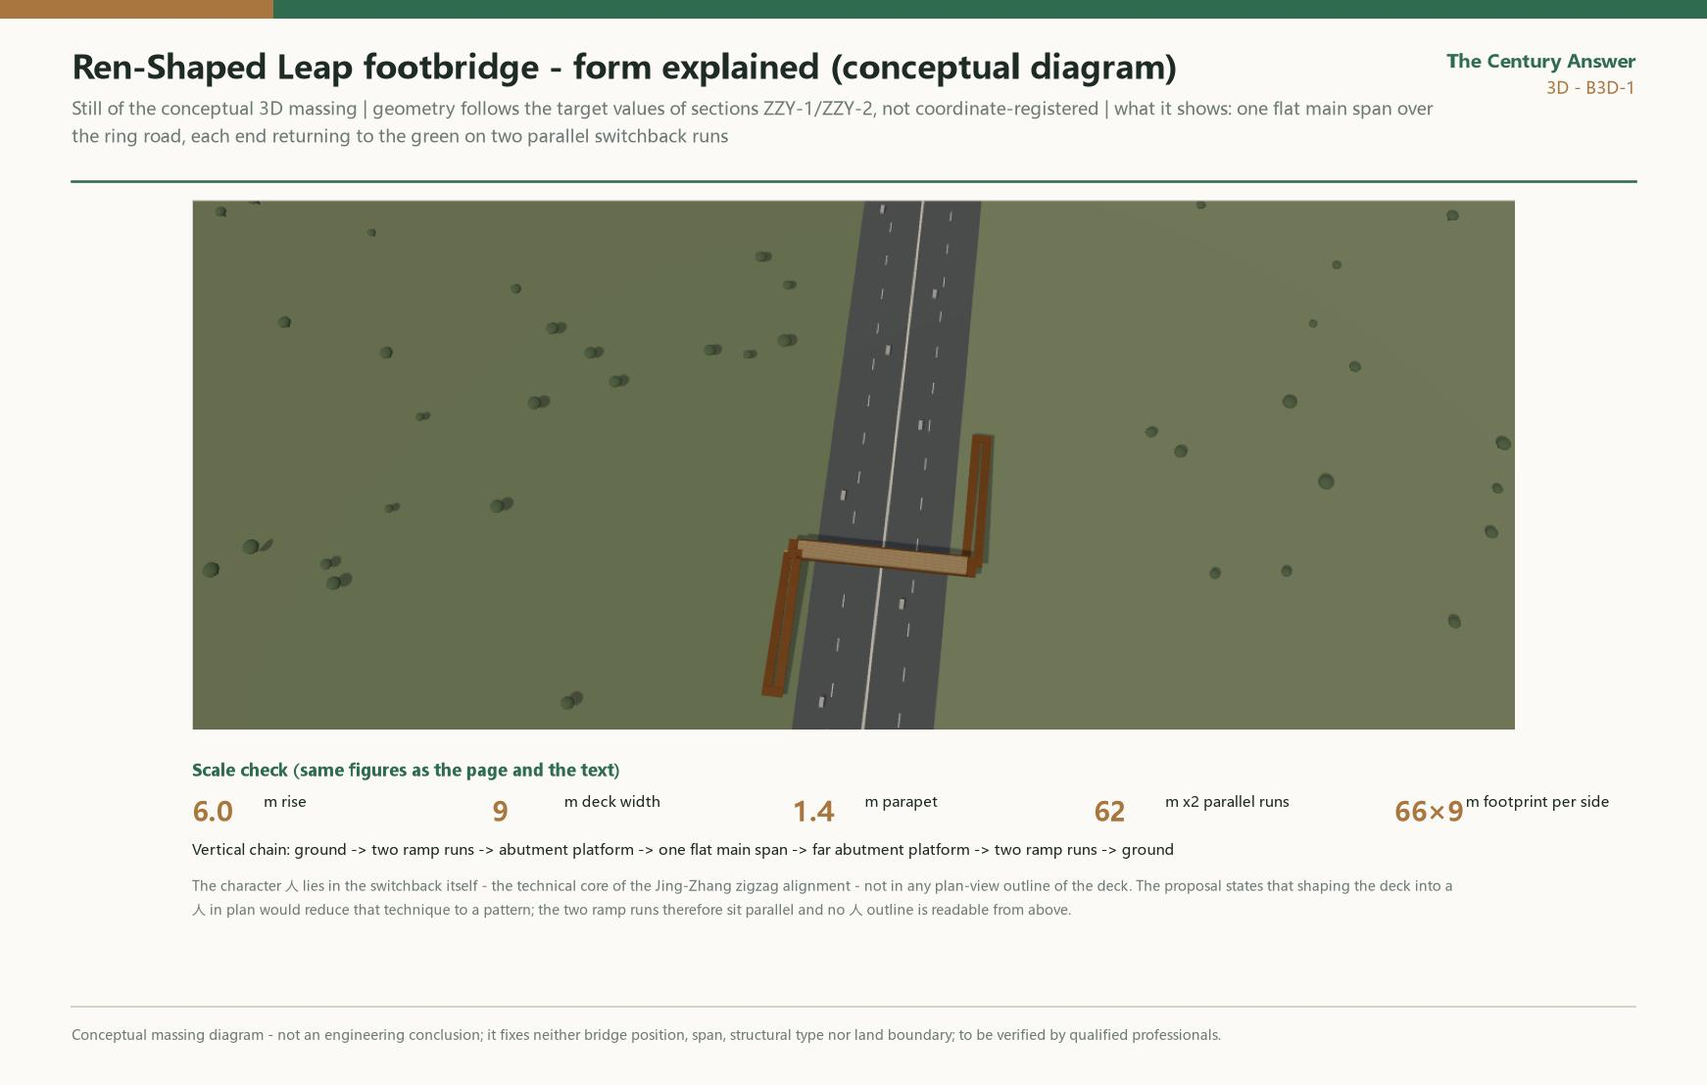
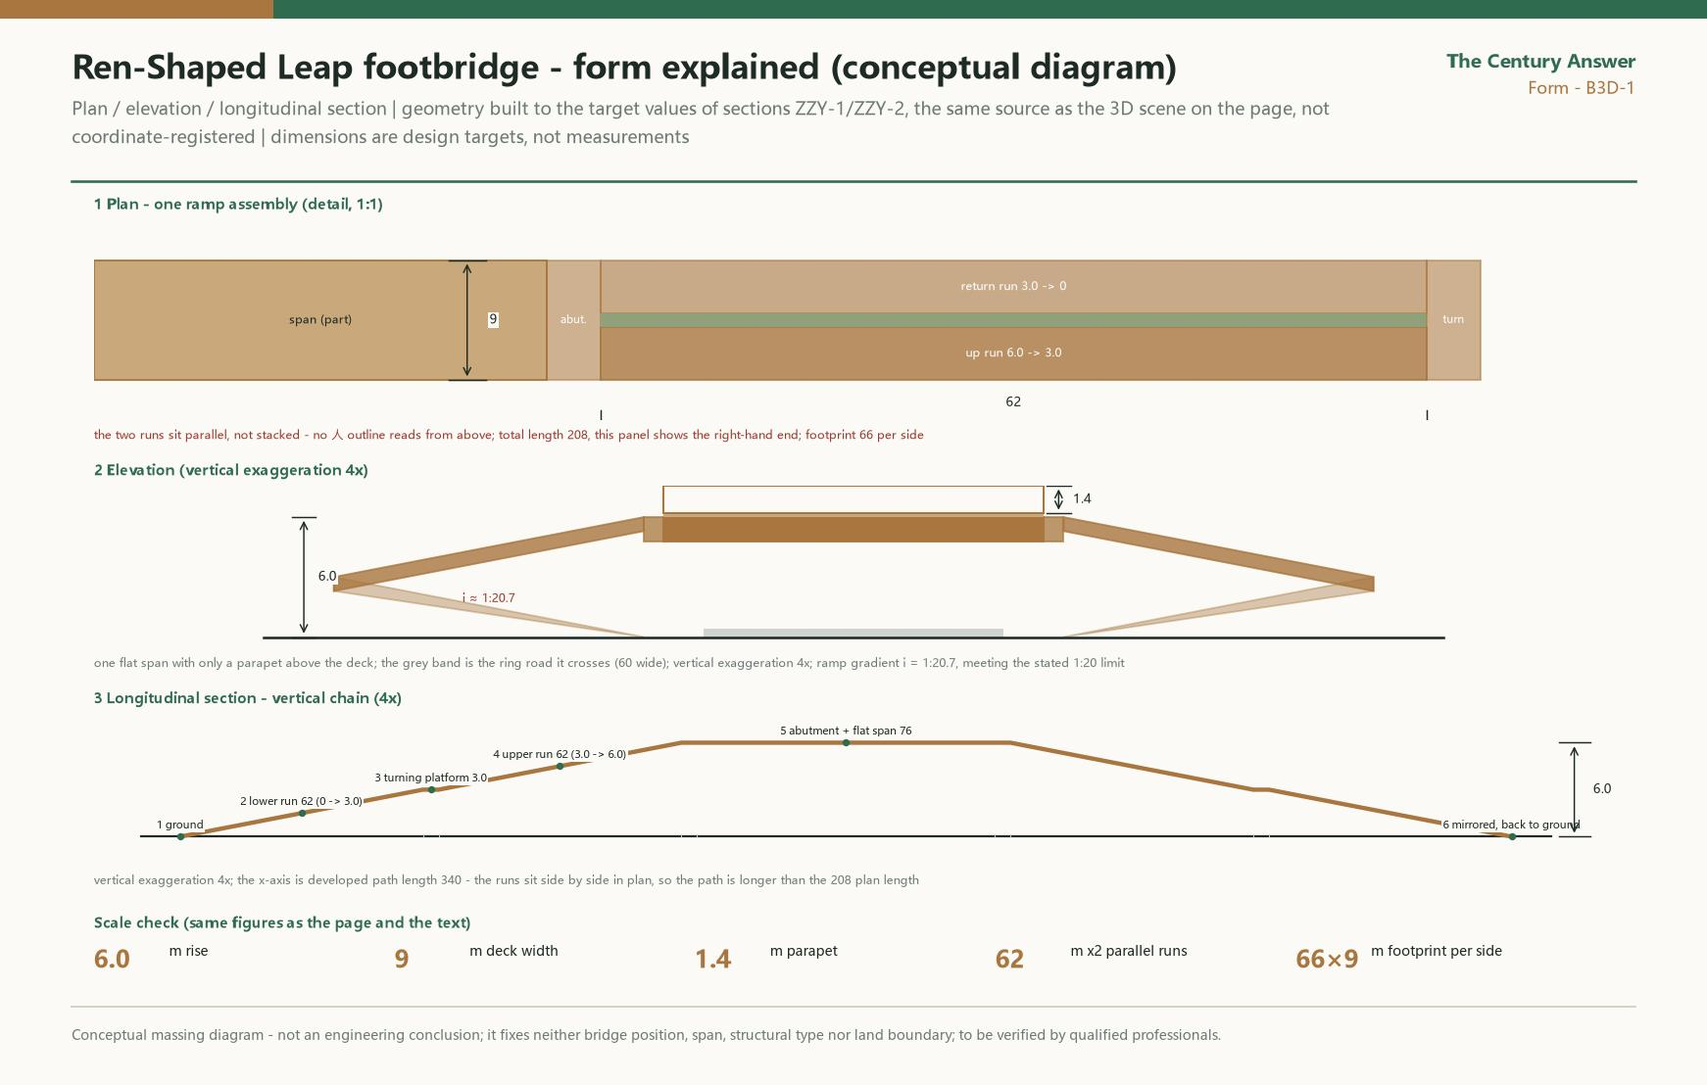
Draw the bridge's form instead of photographing a massing model of it
Putting the still into the section drawings' frame was the right direction but
did not fix the underlying problem: an oblique view of a massing model cannot
explain form. Perspective is for what a place feels like to stand in. The four
things this figure has to say each want a different orthographic projection —
the two ramp runs sitting parallel (plan), the 6.0 / 1.4 / 9 dimensions
(elevation), the six-step vertical chain (section), and a flat span carrying
nothing but a parapet (elevation). The previous version used a perspective plus a
ring of text to explain what the picture did not show; this one lets the drawing
say it. The frame, scale check and disclaimer carry over unchanged.

Geometry is read from bridge3d.js's construction parameters rather than redrawn
from prose, so the drawing, the 3D scene and the page's .dims3 share one source;
assertions lock the 66x9 footprint, the 76 span and the 208 total length so a
change on one side that is not carried to the other fails loudly.

Two drafting decisions are stated on the drawing itself: the plan shows one ramp
assembly at 1:1, because across the full 208 m the 9 m width collapses to a line
and the parallel relationship — the entire reason for that panel — disappears;
and elevation and section carry a 4x vertical exaggeration, because 6 m of rise
over 208 m draws as a flat line.

One error of my own, corrected: the first section mistook plan length for
[…]

diff --git a/submissions/wanghao198822/jingzhang-century-answer/visual/index.en.html b/submissions/wanghao198822/jingzhang-century-answer/visual/index.en.html
@@ -503,7 +503,7 @@ footer .fl{display:flex;gap:18px;flex-wrap:wrap;font-family:var(--mono);font-siz
     <h2>Turn the bridge around: why 人 is read in the ramps</h2>
     <p>Drag to rotate, scroll to zoom. The deck is one flat line with nothing above it but the parapet. The character 人 lives in the <b>switchback</b> at each end — the technical core of the Jing-Zhang Railway's zigzag alignment — not in any plan-view outline of the deck: the proposal states that shaping the deck into a 人 in plan would reduce that technique to a pattern, so the two ramp runs sit parallel and no 人 outline is readable from above. What the model shows is the vertical chain: ground → two ramp runs → abutment platform → one flat main span → far abutment platform → two ramp runs → ground. Geometry follows the target values of sections ZZY-1/ZZY-2 — a concept model, not coordinate-registered.</p>
   </div>
-  <div class="stage" id="b3d-stage" tabindex="0" role="application" aria-label="Three-dimensional conceptual view of the Ren-Shaped Leap footbridge; arrow keys rotate, plus and minus zoom"><img class="b3d-poster" id="b3d-poster" src="assets/renders/b3d-poster.en.jpg" alt="Static view of the Ren-Shaped Leap footbridge scene: one flat deck spans the ring road with nothing above it but the parapet, and each end returns to the green on two parallel switchback ramps; the character ren lies in the act of switching back, not in any outline readable from above. The image is a titled technical diagram carrying a scale check and the vertical chain."><div class="b3d-state mono" id="b3d-state">STATIC IMAGE · 3D LOADING</div><div class="hint3d mono">DRAG / ARROWS · SCROLL / +−</div></div>
+  <div class="stage" id="b3d-stage" tabindex="0" role="application" aria-label="Three-dimensional conceptual view of the Ren-Shaped Leap footbridge; arrow keys rotate, plus and minus zoom"><img class="b3d-poster" id="b3d-poster" src="assets/renders/b3d-poster.en.jpg" alt="Static view of the Ren-Shaped Leap footbridge scene: one flat deck spans the ring road with nothing above it but the parapet, and each end returns to the green on two parallel switchback ramps; the character ren lies in the act of switching back, not in any outline readable from above. The image is an orthographic drawing - plan, elevation and longitudinal section - carrying a scale check and the vertical chain."><div class="b3d-state mono" id="b3d-state">STATIC IMAGE · 3D LOADING</div><div class="hint3d mono">DRAG / ARROWS · SCROLL / +−</div></div>
   <div>
     <div class="dims3 mono"><span><b>6.0</b>m rise</span><span><b>9</b>m deck width</span><span><b>1.4</b>m parapet</span><span><b>62</b>m ×2 parallel runs</span><span><b>66×9</b>m footprint per side</span></div>
     <p class="lic">Three.js r160 (MIT) ships offline with the package at assets/three.min.js; no network request is made.</p>
@@ -869,7 +869,7 @@ This browser cannot play embedded video; open assets/media/narrative.mp4 directl
 <h3 class="sub3"><span class="ix">D·2</span>Four-gate self-check</h3>
 <div class="gates"><div class="gate"><div class="gn">Deterministic validation<span class="pill ok" style="margin-left:7px">PASS</span></div><div class="gk">deterministic_validation · returncode 0</div><pre>errors 0
 warnings 24
-total bytes 41,276,344
+total bytes 41,322,906
 · submissions/wanghao198822/jingzhang-century-answer/geometry/site_boundary.geojson: uses provisional boundary; do not treat it as an official redline or precise-area basis. Organizer data gaps do not block content scoring; recalculate when official geometry is supplied
 · submissions/wanghao198822/jingzhang-century-answer/spatial.json: items[0]: provisional spatial concept needs maintainer review before being treated as public-facing context</pre></div><div class="gate"><div class="gn">Spatial review<span class="pill ok" style="margin-left:7px">PASS</span></div><div class="gk">spatial_review · returncode 0</div><pre>stage formal
 issues 3 (minor:3)
@@ -886,7 +886,7 @@ known_metric_refs_required = 83
 proposal_format_version = 2
 evidence_contract = section-anchors-plus-structured-audit
 proposal_reference_counts = source:23, standard:8, depth:15, data:26, metric:11</pre></div></div>
-<div class="note">From self_check.json: stage = formal · review_status = formal-review-ready · can_enter_formal_review = True<br>Calibre of total bytes: the figure above is the value recorded at self-check time. self_check.json is itself counted in the total, and the tool measures after writing an intermediate file that does not yet carry the gate results, so an independent re-run reports 771 bytes more (41,277,115). The difference is exactly the growth of self_check.json once the gate results are attached — an inherent two-phase write in the tool that changes no gate verdict.</div>
+<div class="note">From self_check.json: stage = formal · review_status = formal-review-ready · can_enter_formal_review = True<br>Calibre of total bytes: the figure above is the value recorded at self-check time. self_check.json is itself counted in the total, and the tool measures after writing an intermediate file that does not yet carry the gate results, so an independent re-run reports 771 bytes more (41,323,677). The difference is exactly the growth of self_check.json once the gate results are attached — an inherent two-phase write in the tool that changes no gate verdict.</div>
 <div class="tw"><table class="dt"><thead><tr><th>Check</th><th>Result</th><th>Severity</th><th>Target</th><th>Message</th></tr></thead><tbody><tr><td><code class="mid2">DETERMINISTIC_VALIDATION</code></td><td class="st"><span class="pill ok">pass</span></td><td>blocking</td><td><code class="mid2">validate_local_submission.py</code></td><td>deterministic_validation: PASS</td></tr><tr><td><code class="mid2">SPATIAL_REVIEW</code></td><td class="st"><span class="pill ok">pass</span></td><td>blocking</td><td><code class="mid2">spatial_review.py</code></td><td>spatial_review: PASS</td></tr><tr><td><code class="mid2">VISUAL_PACKAGING</code></td><td class="st"><span class="pill ok">pass</span></td><td>blocking</td><td><code class="mid2">visual_review.py</code></td><td>visual_review: PASS</td></tr><tr><td><code class="mid2">PROFESSIONAL_EVIDENCE</code></td><td class="st"><span class="pill ok">pass</span></td><td>blocking</td><td><code class="mid2">professional_review.py</code></td><td>professional_review: PASS</td></tr></tbody></table></div>
 </div></section>
 <section class="sec apx" id="s12"><div class="wrap"><div class="sh rv"><span class="no">E</span><h2 class="serif">Appendix E · Verify it yourself, on the spot</h2><span class="sub">Three scripts recompute in your own browser</span><span class="en">附录 E · 可当场核验工具</span></div>

diff --git a/submissions/wanghao198822/jingzhang-century-answer/visual/index.html b/submissions/wanghao198822/jingzhang-century-answer/visual/index.html
@@ -503,7 +503,7 @@ footer .fl{display:flex;gap:18px;flex-wrap:wrap;font-family:var(--mono);font-siz
     <h2>把这座桥转起来看：为什么「人」字在坡道上</h2>
     <p>拖拽旋转、滚轮缩放。桥面是一条平直的横线、之上只有栏板。「人」字落在两端的<b>折返</b>本身——京张铁路展线的技术内核——不落在桥面的平面造型上：正文明写「桥面一旦做成人字形平面造型，展线的技术内核就退化成图案」，两段坡道因此在平面上并排展开，俯视并不构成一个「人」字轮廓。转动模型看的是竖向链条：地面 → 折返坡道两段 → 桥头平台 → 一跨平直主跨 → 对岸桥头平台 → 折返坡道两段 → 落回地面。几何按断面 ZZY-1/ZZY-2 的设计目标值搭建，属概念示意、未经坐标配准。</p>
   </div>
-  <div class="stage" id="b3d-stage" tabindex="0" role="application" aria-label="人字之跃步行桥三维概念示意，可用方向键旋转、加减号缩放"><img class="b3d-poster" id="b3d-poster" src="assets/renders/b3d-poster.jpg" alt="人字之跃步行桥的三维场景静态图：一跨平直桥面横跨环路，桥面之上只有栏板，两端各以两段并排折返坡道落回两侧绿地；「人」字落在折返这一动作上，不是俯视可读出的平面轮廓。图为带图签的技术示意，附尺度校核与竖向链条说明。"><div class="b3d-state mono" id="b3d-state">静态图 · 可交互三维加载中</div><div class="hint3d mono">拖拽或方向键旋转 · 滚轮或 +/− 缩放</div></div>
+  <div class="stage" id="b3d-stage" tabindex="0" role="application" aria-label="人字之跃步行桥三维概念示意，可用方向键旋转、加减号缩放"><img class="b3d-poster" id="b3d-poster" src="assets/renders/b3d-poster.jpg" alt="人字之跃步行桥的三维场景静态图：一跨平直桥面横跨环路，桥面之上只有栏板，两端各以两段并排折返坡道落回两侧绿地；「人」字落在折返这一动作上，不是俯视可读出的平面轮廓。图为平面／立面／纵剖三格正投影的技术图，附尺度校核与竖向链条说明。"><div class="b3d-state mono" id="b3d-state">静态图 · 可交互三维加载中</div><div class="hint3d mono">拖拽或方向键旋转 · 滚轮或 +/− 缩放</div></div>
   <div>
     <div class="dims3 mono"><span><b>6.0</b>m 抬升</span><span><b>9</b>m 桥面净宽</span><span><b>1.4</b>m 栏板</span><span><b>62</b>m×2 并排坡道</span><span><b>66×9</b>m 单侧占地</span></div>
     <p class="lic">Three.js r160（MIT 许可）随包离线提供于 assets/three.min.js，无任何网络请求。</p>
@@ -869,7 +869,7 @@ footer .fl{display:flex;gap:18px;flex-wrap:wrap;font-family:var(--mono);font-siz
 <h3 class="sub3"><span class="ix">D·2</span>四门自检</h3>
 <div class="gates"><div class="gate"><div class="gn">确定性校验<span class="pill ok" style="margin-left:7px">PASS</span></div><div class="gk">deterministic_validation · returncode 0</div><pre>错误 0
 警告 24
-总字节 41,276,344
+总字节 41,322,906
 · submissions/wanghao198822/jingzhang-century-answer/geometry/site_boundary.geojson: uses provisional boundary; do not treat it as an official redline or precise-area basis. Organizer data gaps do not block content scoring; recalculate when official geometry is supplied
 · submissions/wanghao198822/jingzhang-century-answer/spatial.json: items[0]: provisional spatial concept needs maintainer review before being treated as public-facing context</pre></div><div class="gate"><div class="gn">空间审查<span class="pill ok" style="margin-left:7px">PASS</span></div><div class="gk">spatial_review · returncode 0</div><pre>阶段 formal
 问题 3 (minor:3)
@@ -886,7 +886,7 @@ known_metric_refs_required = 83
 proposal_format_version = 2
 evidence_contract = section-anchors-plus-structured-audit
 proposal_reference_counts = source:23, standard:8, depth:15, data:26, metric:11</pre></div></div>
-<div class="note">self_check.json 记录：stage = formal · review_status = formal-review-ready · can_enter_formal_review = True<br>总字节口径：上表为自检写入时点的记录值。self_check.json 自身计入总字节，而工具先写入尚未附四门结果的中间文件再测量，故独立重跑会比表中大 771 字节（41,277,115）——差值即 self_check.json 附上四门结果后的增量，属工具固有的两阶段写入，不影响任何一门的结论。</div>
+<div class="note">self_check.json 记录：stage = formal · review_status = formal-review-ready · can_enter_formal_review = True<br>总字节口径：上表为自检写入时点的记录值。self_check.json 自身计入总字节，而工具先写入尚未附四门结果的中间文件再测量，故独立重跑会比表中大 771 字节（41,323,677）——差值即 self_check.json 附上四门结果后的增量，属工具固有的两阶段写入，不影响任何一门的结论。</div>
 <div class="tw"><table class="dt"><thead><tr><th>自检项</th><th>结果</th><th>级别</th><th>对象</th><th>说明</th></tr></thead><tbody><tr><td><code class="mid2">DETERMINISTIC_VALIDATION</code></td><td class="st"><span class="pill ok">pass</span></td><td>blocking</td><td><code class="mid2">validate_local_submission.py</code></td><td>deterministic_validation: PASS</td></tr><tr><td><code class="mid2">SPATIAL_REVIEW</code></td><td class="st"><span class="pill ok">pass</span></td><td>blocking</td><td><code class="mid2">spatial_review.py</code></td><td>spatial_review: PASS</td></tr><tr><td><code class="mid2">VISUAL_PACKAGING</code></td><td class="st"><span class="pill ok">pass</span></td><td>blocking</td><td><code class="mid2">visual_review.py</code></td><td>visual_review: PASS</td></tr><tr><td><code class="mid2">PROFESSIONAL_EVIDENCE</code></td><td class="st"><span class="pill ok">pass</span></td><td>blocking</td><td><code class="mid2">professional_review.py</code></td><td>professional_review: PASS</td></tr></tbody></table></div>
 </div></section>
 <section class="sec apx" id="s12"><div class="wrap"><div class="sh rv"><span class="no">E</span><h2 class="serif">附录 E · 可当场核验工具</h2><span class="sub">三个脚本在你自己的浏览器里当场复算</span><span class="en">Appendix E · Verify it yourself, on the spot</span></div>

diff --git a/submissions/wanghao198822/jingzhang-century-answer/report/copyright_statement.md b/submissions/wanghao198822/jingzhang-century-answer/report/copyright_statement.md
@@ -43,7 +43,7 @@
 1. `visual/assets/renders/` 下七张概念意象图，分两批生成，来源如下：
    - **Lib Image（LibTV 平台）两张**：`render-bell-plaza.jpg`（应答钟广场，以公开授权的大钟寺实景照片〔Wikimedia Commons，CC 许可〕为参考图生成，用于还原古建形制）、`render-spike-belt.jpg`（道钉带日景）。
    - **GPT image 2.0（经用户 ChatGPT Pro 订阅调用）八张**：`render-ren-bridge.jpg`（人字之跃片区鸟瞰）、`render-answer-gate.jpg`（巨型「应答簿」纪念门，生成过程留档、判为不采用）、`render-spike-belt-night.jpg`（道钉带夜景）、`render-disclosure-wall.jpg`（算法公示墙）、`render-lesson-gate.jpg`（无墙学期课门）、`render-answer-origin.jpg`（中答·应答原点片区鸟瞰）、`render-dazhongsi-aerial.jpg`（南问·大钟寺片区鸟瞰）、`render-robot-knocks.jpg`（应答门·机器人敲门）。
-   - **非 AI 生成的随包图像两张**：`b3d-poster.jpg` 与 `b3d-poster.en.jpg`，均为本包离线三维场景（Three.js）自身的截图，经确定性脚本 `build-staging/make_b3d_poster.py` 套入与断面图件同一套图签版式（标题、视点与几何依据说明、尺度校核、竖向链条、免责），非图像模型生成物、未经任何图像模型润饰。图中尺度数值与展示页 `.dims3`、正文口径一致；几何按断面 ZZY-1／ZZY-2 的设计目标值搭建，未经坐标配准。
+   - **非 AI 生成的随包图像两张**：`b3d-poster.jpg` 与 `b3d-poster.en.jpg` 为确定性脚本 `build-staging/make_b3d_form.py` 绘制的正投影技术图（平面／立面／纵剖三格），几何参数与包内离线三维场景 `visual/assets/bridge3d.js` 同源，非图像模型生成物、未经任何图像模型润饰。图中尺寸为设计目标值，与展示页 `.dims3`、正文口径一致；立面与纵剖的竖向放大倍数已在图上注明。
    - **两张前版已判为不采用并整条替换**：旧 `render-ren-bridge` 表现为下承式桁架桥，与正文「桥不做塔、不做拱、不做门架」「桥面之上不叠加构筑物」等五项口径不符，该文件已不随包提交；旧 `render-answer-gate` 表现为青铜卷轴（巨型「应答簿」）纪念门，与正文「46 座社区出入口」的定义不符，**该文件仍随包提交、但仅作生成过程留档**，在 manifest 与展示页画廊中均标注「判为不采用」，不作为方案表达。作废原因在此写明，以免读者从早期版本产生误解。
    - **提示词全部由本方案自行撰写**，其中人字之跃一张的几何条件（抬升 6 米、单侧坡道展开 128 米、两段并排折返、占地 66×9 米、两端落地）取自本包断面图件 ZZY-1／ZZY-2 的数值；大钟寺一带的空间关系取自 OSM 实测（觉生寺与地铁 13 号线大钟寺站相距约 676 米、方位约 115°，13 号线走向约 175°）。
    - **边界（重要）**：以上七张均为**意象图，不是图纸**。它们由文字提示词生成，**未经坐标配准，不由本包 `geometry/*.geojson` 派生**，因而不表达用地性质、不表达地块边界、不表达任何要素的精确位置与尺寸；个别画面与正文数值吻合，是提示词约束的结果而非几何生成的结果。凡涉及用地、边界、尺寸与位置的表达，一律以 `assets/figures/` 下的规划图件与断面图件为准。

diff --git a/submissions/wanghao198822/jingzhang-century-answer/changelog.md b/submissions/wanghao198822/jingzhang-century-answer/changelog.md
@@ -1,5 +1,14 @@
 # 方案迭代记录
 
+## v0.24 - 2026-08-28
+
+- **三维静态图改为平面／立面／纵剖三格正投影**。上一版把它套进图签版式是对的方向，但没解决根本问题：**一张斜俯视的体块透视图说明不了形态**。透视擅长的是「站在那儿什么感觉」；而这张图要传达的四件事各有各该用的投影——两段坡道并排（平面）、6.0／1.4／9 三个尺寸（立面）、竖向链条六步（纵剖）、一跨平直且桥面之上只有栏板（立面）。上一版是**用透视图＋一圈文字去解释画面里看不出来的东西**，这一版让画面自己说。图签外框、尺度校核与免责整套保留，返工的只是画面。
+  - **几何取自 `visual/assets/bridge3d.js` 的构造参数，不从文字重画**，因此本图、三维场景、展示页 `.dims3` 三者同源；脚本末尾以断言锁住单侧占地 66×9、主跨 76、全长 208 三项，参数改动而未同步会直接报错。
+  - **两条制图取舍都写在图上**：① 平面取一端坡道局部（1:1）——全长 208 米、坡道宽仅 9 米，画全长时两段坡道会挤成一根线，「并排而非叠置」这件最要紧的事恰恰看不见；② 立面与纵剖竖向放大 4×——208 米对 6 米抬升，等比画出来是一条平线，三个尺寸标不出来。
+  - **纠正一处自己画错的**：纵剖首版把平面长度当成了展开长度，回折段因此画成「一段平的＋一个垂直跌落」。两段坡道在平面上并排，沿路径展开的长度是 62+4+62+4 ＋76＋ 镜像 ＝ 340，而非平面长度 208。已改为展开剖面，并在图上注明横轴口径，避免读者把两者混用。
+- **相应的自我描述同步改**：`manifest.json` 两条描述、`report/copyright_statement.md` 此前都写「Three.js 场景截图套版式」，现均改为「确定性脚本绘制的正投影技术图，几何与三维场景同源」；展示页两处 `alt` 同步。**未使用任何图像模型。**
+- **复验**：无 WebGL 时两语言均显示对应语种图、`role=img`、操作提示与 `tabindex` 均已移除；有 WebGL 时画布起来、静态图隐藏、`tabindex=0` 保留。漂移与跨产物数字均 PASS，包体 39.41 MiB。
+
 ## v0.23 - 2026-08-28
 
 - **展示页对「人」字的说法与正文相反，共四处**。正文原话：「"人"字落在两端折返坡道上，不落在桥面上——**桥面一旦做成人字形平面造型，展线的技术内核就退化成图案**」「每侧只设一处折返，**两段坡道在平面上并排展开**、不上下叠置」。也就是说方案是**主动拒绝**人字形平面造型的，「人」指的是折返这一动作（京张展线的技术内核）。而展示页说的是反的：中英文正文各一句「「人」字要从空中俯视两端并排折返的坡道才能读出来」、静态图 `alt` 两处、`manifest.json` 的图件描述里还有「俯视合读为「人」字」。**已开图核实：把三维场景转到接近正俯视，确实读不出人字轮廓**——页面让评委去做一件做不到的事，而且做完会发现与正文互相矛盾。四处已全部按正文口径改正。
